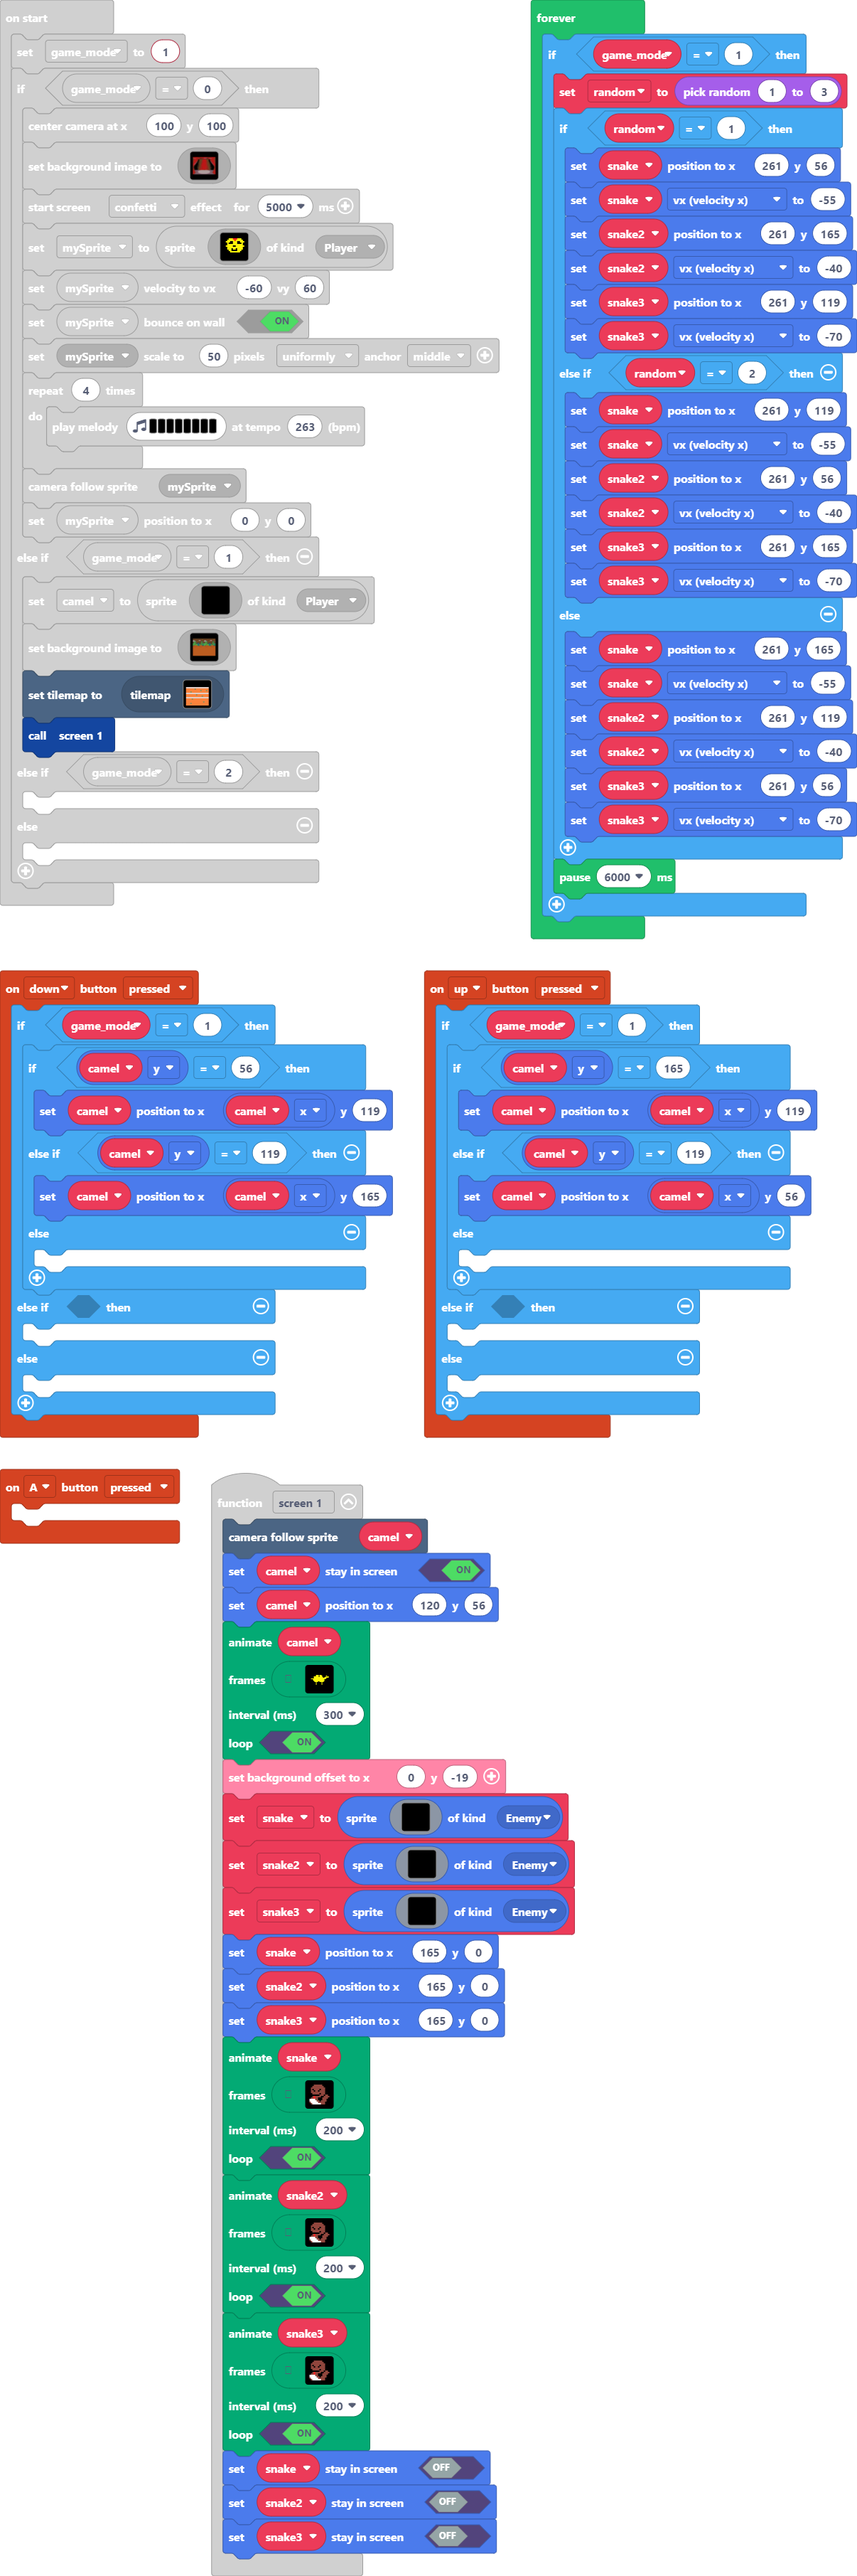
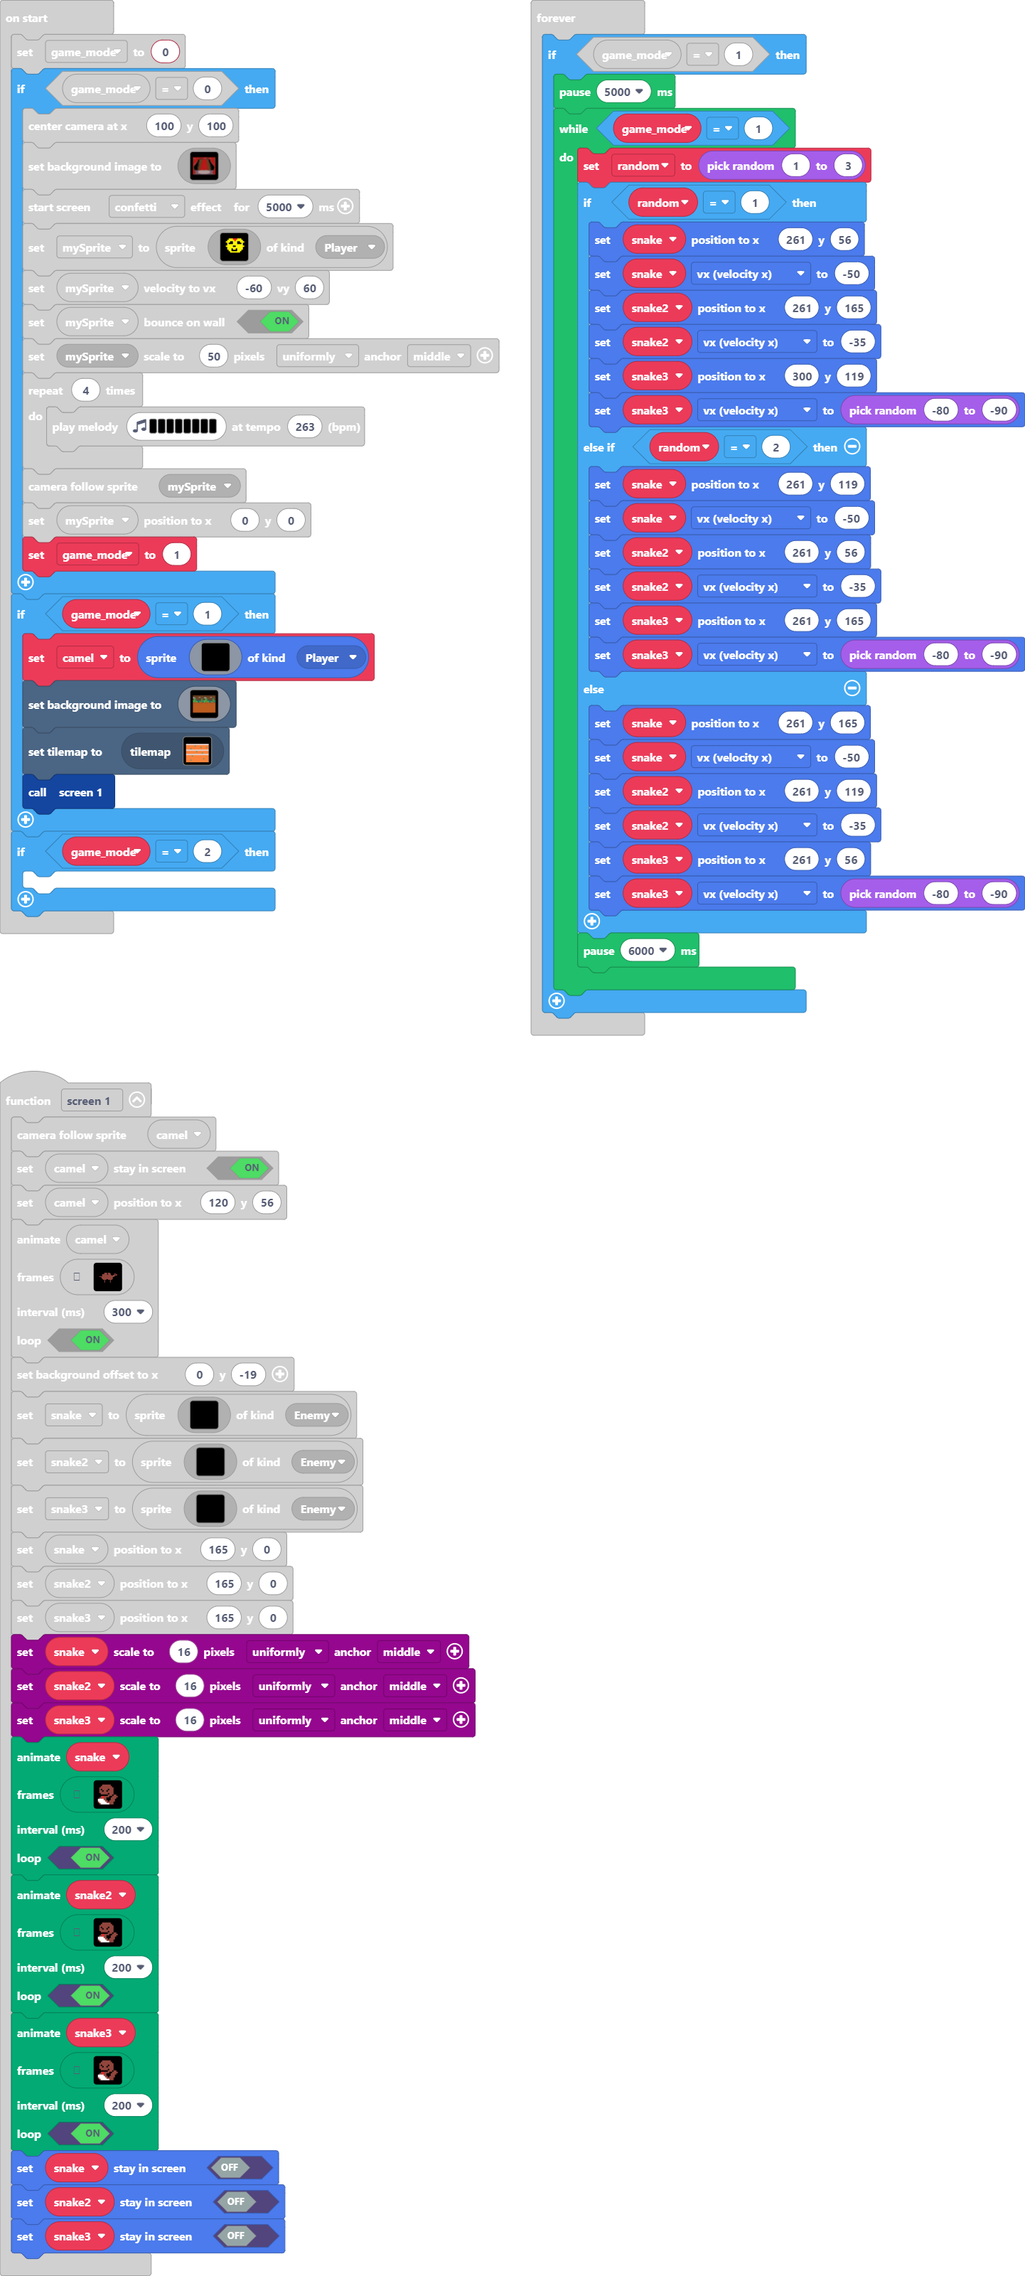
some

diff --git a/images.g.ts b/images.g.ts
@@ -862,59 +862,6 @@ c f f f f d d d e e f c f . . .
 . . . . . f f f f f f f . . . . 
 . . . . . . . . . f f f . . . . 
 `];
-            case "CamelGif":
-            case "anim9":return [img`
-................................
-................................
-...........5555.555.............
-...........5555.5555.....55.....
-........5555555.5555.....5f55...
-........5555555555555..555555...
-........555555555555555555......
-....555555555555555555555.......
-.......5555555555555555.........
-.......5555555555555555.........
-........555555555555555.........
-.........55555..555555..........
-...........5.......5............
-...........5.......5............
-...........5.......5............
-...........5.......5............
-`, img`
-................................
-................................
-...........5555.555.............
-...........5555.5555.....55.....
-........5555555.5555.....5f55...
-........5555555555555..555555...
-....555.555555555555555555......
-...55.5555555555555555555.......
-.......5555555555555555.........
-.......5555555555555555.........
-........555555555555555.........
-.........55555..555555..........
-...........5.......5............
-...........5.......5............
-...........5.......5............
-...........5.......5............
-`, img`
-................................
-................................
-...........5555.555.............
-...........5555.5555............
-........5555555.5555.....55.....
-........5555555555555....5f55...
-....555.555555555555555555555...
-...55.55555555555555555555......
-..55...555555555555555555.......
-.......5555555555555555.........
-........555555555555555.........
-.........55555..555555..........
-...........5.......5............
-...........5.......5............
-...........5.......5............
-...........5.......5............
-`];
             case "myAnim0":
             case "anim2":return [img`
 . . . . f f f f f f . . . . . . 
@@ -950,6 +897,59 @@ f e e e e e e e e e e f . . . .
 . f e 1 1 1 1 1 e e e e e f . . 
 . . f e 1 1 1 1 1 e e e f f . . 
 . . . f f f f f f f f f f . . . 
+`];
+            case "CamelGif":
+            case "anim9":return [img`
+................................
+................................
+...........eeee.eee.............
+...........eeee.eeee.....ee.....
+........eeeeeee.eeee.....efee...
+........eeeeeeeeeeeee..eeeeee...
+........eeeeeeeeeeeeeeeeee......
+....eeeeeeeeeeeeeeeeeeeee.......
+.......eeeeeeeeeeeeeeee.........
+.......eeeeeeeeeeeeeeee.........
+........eeeeeeeeeeeeeee.........
+.........eeeee..eeeeee..........
+...........e.......e............
+...........e.......e............
+...........e.......e............
+...........e.......e............
+`, img`
+................................
+................................
+...........eeee.eee.............
+...........eeee.eeee.....ee.....
+........eeeeeee.eeee.....efee...
+........eeeeeeeeeeeee..eeeeee...
+....eee.eeeeeeeeeeeeeeeeee......
+...ee.eeeeeeeeeeeeeeeeeee.......
+.......eeeeeeeeeeeeeeee.........
+.......eeeeeeeeeeeeeeee.........
+........eeeeeeeeeeeeeee.........
+.........eeeee..eeeeee..........
+...........e.......e............
+...........e.......e............
+...........e.......e............
+...........e.......e............
+`, img`
+................................
+................................
+...........eeee.eee.............
+...........eeee.eeee............
+........eeeeeee.eeee.....ee.....
+........eeeeeeeeeeeee....efee...
+....eee.eeeeeeeeeeeeeeeeeeeee...
+...ee.eeeeeeeeeeeeeeeeeeee......
+..ee...eeeeeeeeeeeeeeeeee.......
+.......eeeeeeeeeeeeeeee.........
+........eeeeeeeeeeeeeee.........
+.........eeeee..eeeeee..........
+...........e.......e............
+...........e.......e............
+...........e.......e............
+...........e.......e............
 `];
         }
         return null;

diff --git a/main.ts b/main.ts
@@ -102,6 +102,9 @@ function screen_1 () {
     snake.setPosition(165, 0)
     snake2.setPosition(165, 0)
     snake3.setPosition(165, 0)
+    scaling.scaleToPixels(snake, 16, ScaleDirection.Uniformly, ScaleAnchor.Middle)
+    scaling.scaleToPixels(snake2, 16, ScaleDirection.Uniformly, ScaleAnchor.Middle)
+    scaling.scaleToPixels(snake3, 16, ScaleDirection.Uniformly, ScaleAnchor.Middle)
     animation.runImageAnimation(
     snake,
     assets.animation`myAnim0`,
@@ -131,7 +134,7 @@ let snake: Sprite = null
 let camel: Sprite = null
 let mySprite: Sprite = null
 let game_mode = 0
-game_mode = 1
+game_mode = 0
 if (game_mode == 0) {
     scene.centerCameraAt(100, 100)
     scene.setBackgroundImage(img`
@@ -283,7 +286,9 @@ if (game_mode == 0) {
     }
     scene.cameraFollowSprite(mySprite)
     mySprite.setPosition(0, 0)
-} else if (game_mode == 1) {
+    game_mode = 1
+}
+if (game_mode == 1) {
     camel = sprites.create(img`
         . . . . . . . . . . . . . . . . 
         . . . . . . . . . . . . . . . . 
@@ -426,36 +431,38 @@ if (game_mode == 0) {
         `)
     tiles.setCurrentTilemap(tilemap`level1`)
     screen_1()
-} else if (game_mode == 2) {
-	
-} else {
+}
+if (game_mode == 2) {
 	
 }
 forever(function () {
     if (game_mode == 1) {
-        random = randint(1, 3)
-        if (random == 1) {
-            snake.setPosition(261, 56)
-            snake.vx = -55
-            snake2.setPosition(261, 165)
-            snake2.vx = -40
-            snake3.setPosition(261, 119)
-            snake3.vx = -70
-        } else if (random == 2) {
-            snake.setPosition(261, 119)
-            snake.vx = -55
-            snake2.setPosition(261, 56)
-            snake2.vx = -40
-            snake3.setPosition(261, 165)
-            snake3.vx = -70
-        } else {
-            snake.setPosition(261, 165)
-            snake.vx = -55
-            snake2.setPosition(261, 119)
-            snake2.vx = -40
-            snake3.setPosition(261, 56)
-            snake3.vx = -70
+        pause(5000)
+        while (game_mode == 1) {
+            random = randint(1, 3)
+            if (random == 1) {
+                snake.setPosition(261, 56)
+                snake.vx = -50
+                snake2.setPosition(261, 165)
+                snake2.vx = -35
+                snake3.setPosition(300, 119)
+                snake3.vx = randint(-80, -90)
+            } else if (random == 2) {
+                snake.setPosition(261, 119)
+                snake.vx = -50
+                snake2.setPosition(261, 56)
+                snake2.vx = -35
+                snake3.setPosition(261, 165)
+                snake3.vx = randint(-80, -90)
+            } else {
+                snake.setPosition(261, 165)
+                snake.vx = -50
+                snake2.setPosition(261, 119)
+                snake2.vx = -35
+                snake3.setPosition(261, 56)
+                snake3.vx = randint(-80, -90)
+            }
+            pause(6000)
         }
-        pause(6000)
     }
 })
